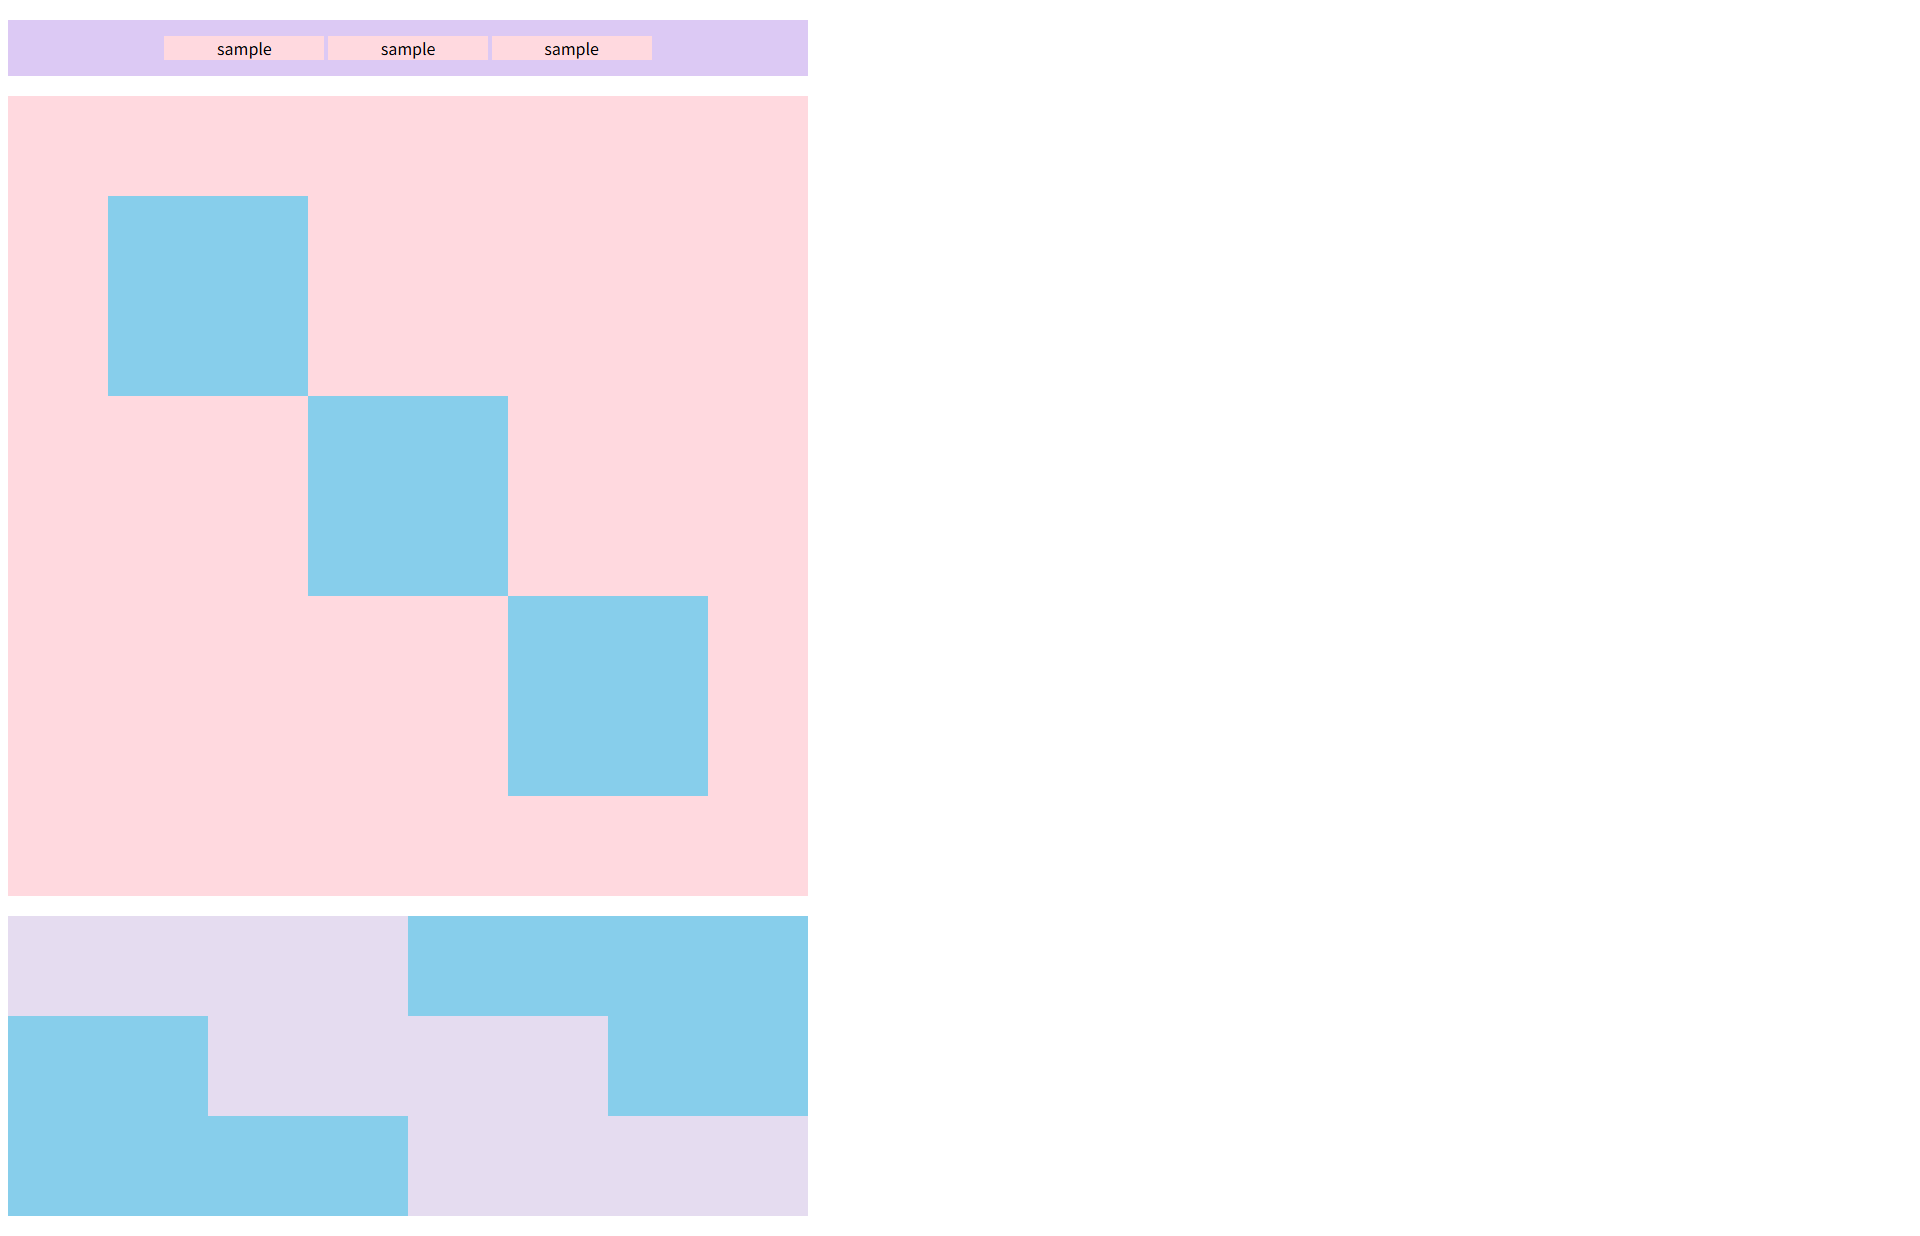
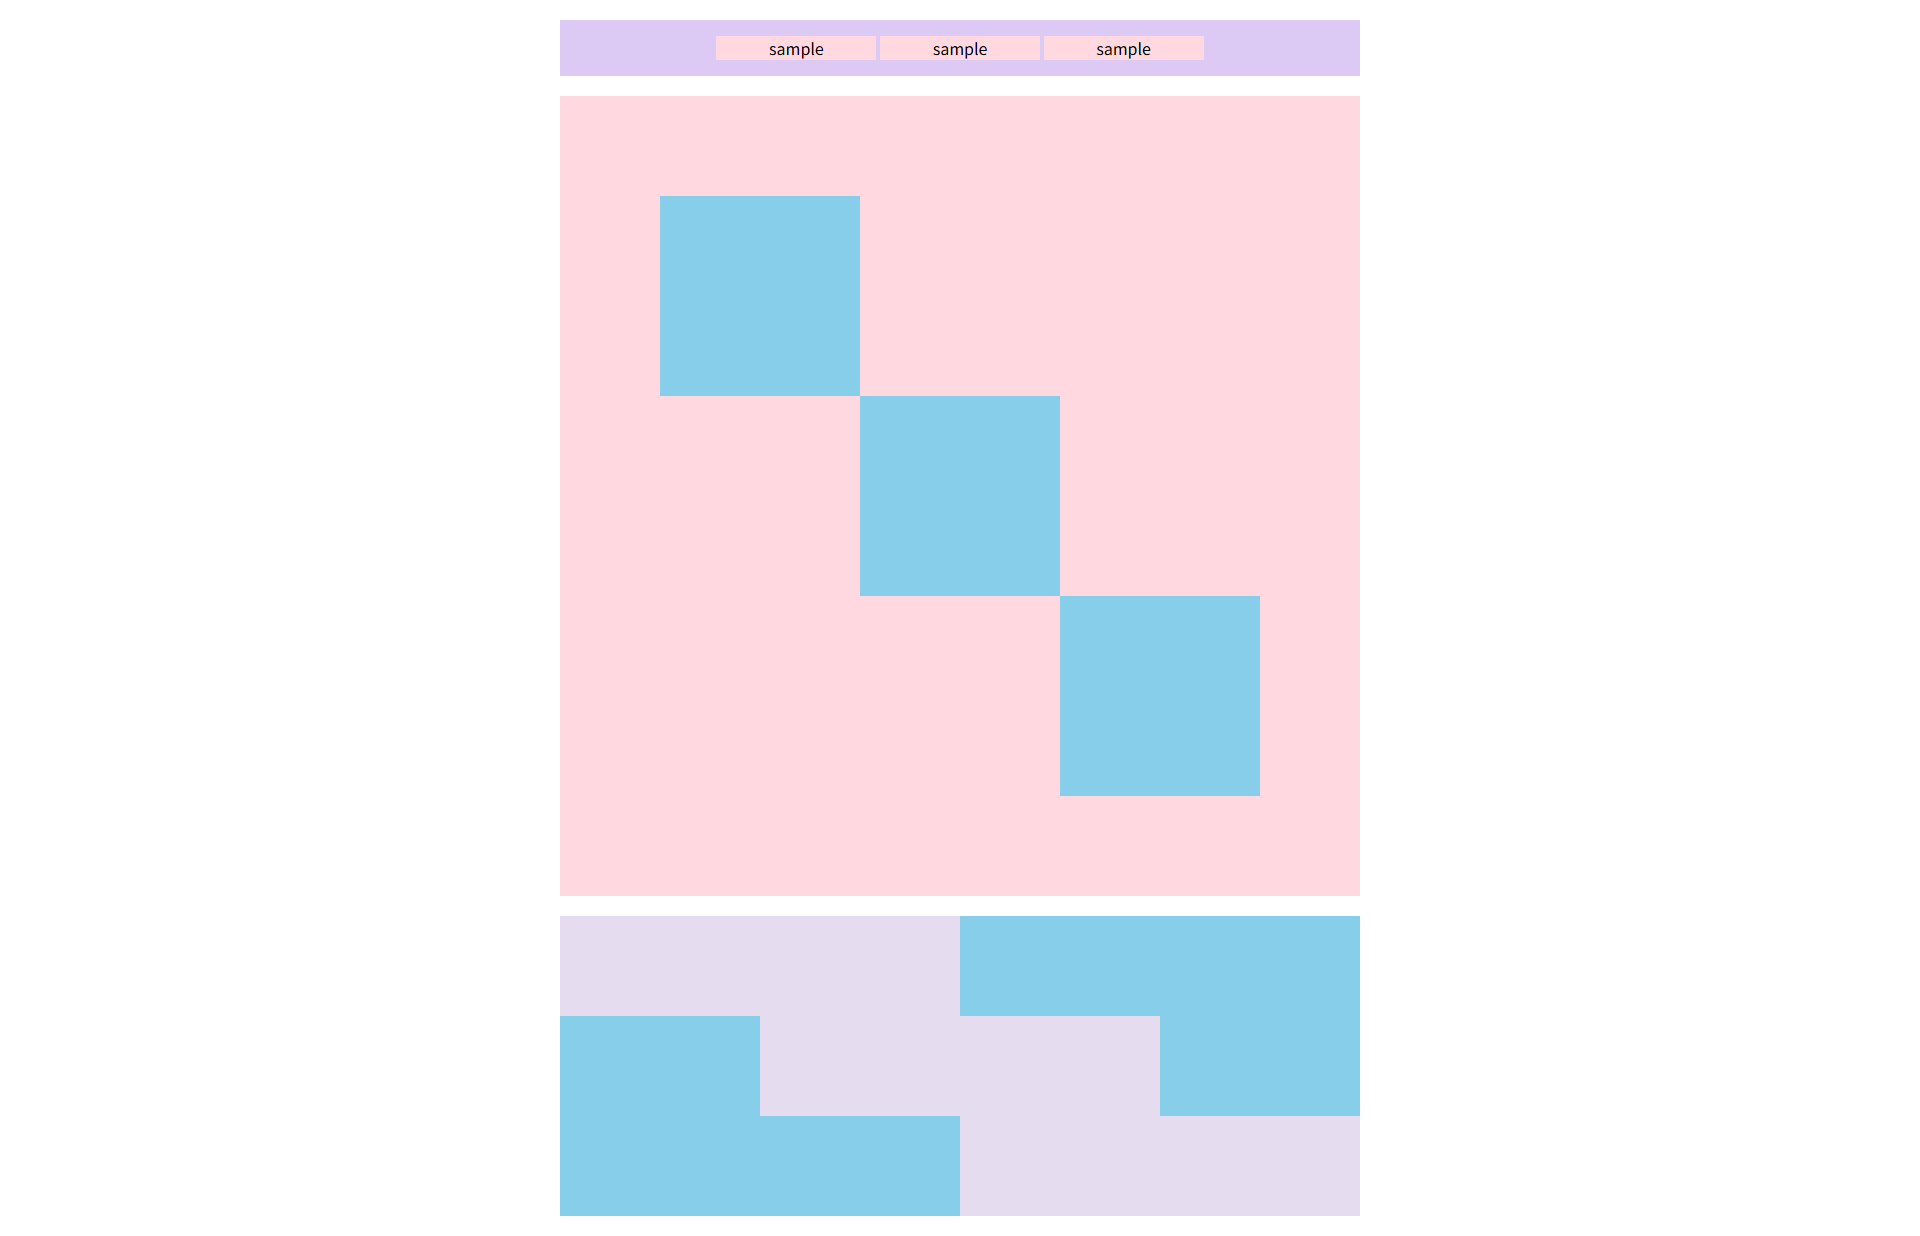
kadai_018を再アップロード

diff --git a/kadai_018/style.css b/kadai_018/style.css
@@ -1,7 +1,7 @@
 #top {
   width: 800px;
   background-color: #dcc9f4;
-  margin: 20px 0;
+  margin: 20px auto;
   text-align: center;
 }
 .top-child {
@@ -12,7 +12,7 @@
 #middle {
   width: 800px;
   height: 800px;
-  margin: 20px 0;
+  margin: 20px auto;
   background-color: #ffd9df;
   position: relative;
 }
@@ -43,7 +43,7 @@
 #bottom {
   width: 800px;
   height: 300px;
-  margin: 20px 0;
+  margin: 20px auto;
   background-color: #87ceeb;
   position: relative;
 }